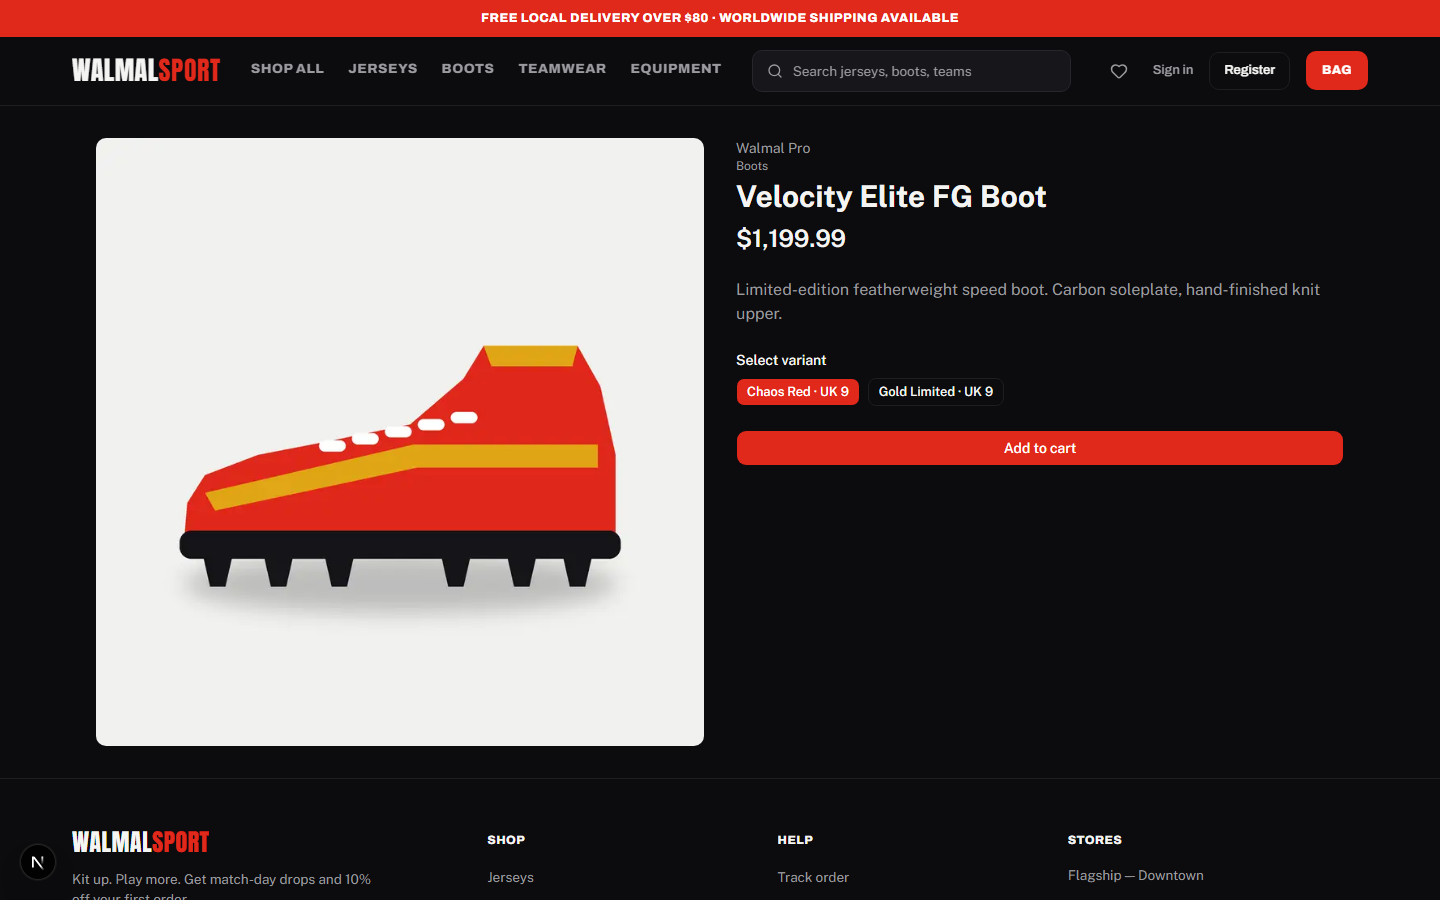
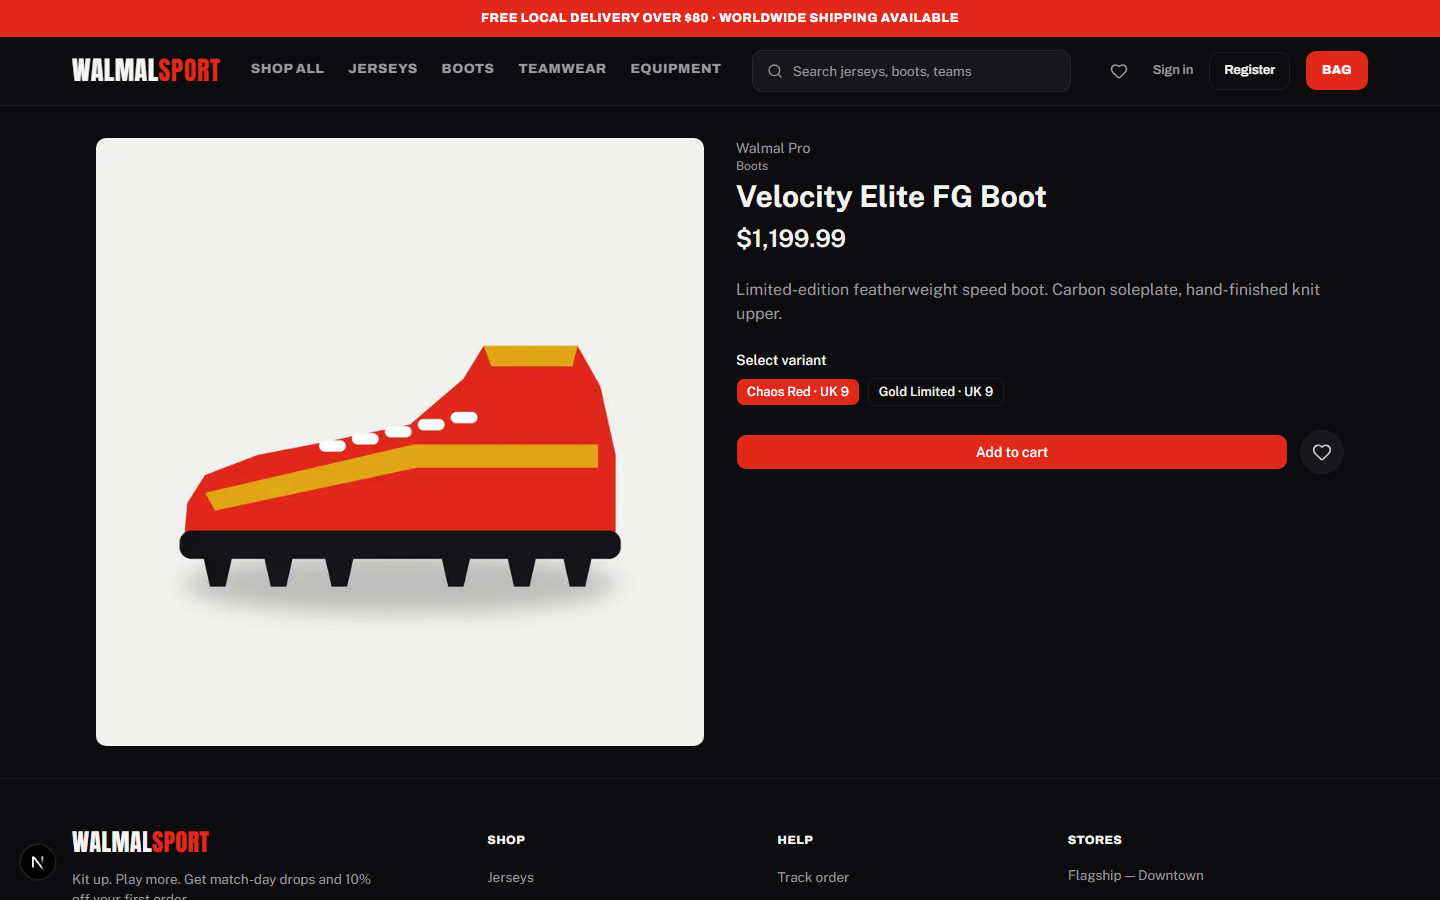
chore: lint to zero + breadcrumb nav + fresh product screenshot
Typed the test anys, documented the checkout-form mode-sync disable,
removed unused vars/directives, deleted unused SEEDED_ITEM_B, wrapped the
listing breadcrumb in nav[aria-label=Breadcrumb], re-captured product.png
(wishlist heart now visible). npm run lint: 0 problems.

Claude-Session: https://claude.ai/code/session_01Sqb2FPWSJrQ8JcYgWQh3cg

Changed region(s): [[0.5312, 0.4667, 0.9375, 0.5289]]

diff --git a/src/app/(shop)/products/page.tsx b/src/app/(shop)/products/page.tsx
@@ -122,12 +122,14 @@ function ProductsContent() {
     <div>
       <div className="border-b border-border">
         <div className="container mx-auto px-4 py-6 lg:py-9">
-          <p className="label-caps text-[12px] text-[#6b6b73]">
-            <Link href="/" className="transition-colors hover:text-foreground">
-              Home
-            </Link>{' '}
-            / {heading}
-          </p>
+          <nav aria-label="Breadcrumb">
+            <p className="label-caps text-[12px] text-[#6b6b73]">
+              <Link href="/" className="transition-colors hover:text-foreground">
+                Home
+              </Link>{' '}
+              / {heading}
+            </p>
+          </nav>
           <h1 className="display-heading mt-2 text-[34px] text-foreground lg:text-[56px]">{heading}</h1>
         </div>
       </div>

diff --git a/tests/e2e/authenticated-checkout.spec.ts b/tests/e2e/authenticated-checkout.spec.ts
@@ -37,15 +37,6 @@ const SEEDED_ITEM: CartItem = {
   imageUrl:    '',
 }
 
-const SEEDED_ITEM_B: CartItem = {
-  variantId:   '20000000-0000-0000-0000-000000000002',
-  productName: 'Velocity Elite FG Boot',
-  variantName: 'WP-VELO-LE-UK9G',
-  price:       1419.99,
-  quantity:    1,
-  imageUrl:    '',
-}
-
 const TEST_ADDRESS = {
   line1: '1 Auth Street', city: 'LoginCity', postalCode: '99999', country: 'US',
 }

diff --git a/tests/lib/api/client.test.ts b/tests/lib/api/client.test.ts
@@ -66,9 +66,9 @@ describe('apiClient interceptors', () => {
             mockLogout()
           },
         }),
-        setState: (patch: any) => {
-          if ('token' in patch) mockToken = patch.token
-          if ('status' in patch) mockStatus = patch.status
+        setState: (patch: { token?: string | null; status?: string }) => {
+          if ('token' in patch) mockToken = patch.token ?? null
+          if ('status' in patch) mockStatus = patch.status ?? mockStatus
         },
       },
     }))

diff --git a/src/components/checkout/checkout-form.tsx b/src/components/checkout/checkout-form.tsx
@@ -36,6 +36,10 @@ export function CheckoutForm() {
   const isAuthenticated = authStatus === 'authenticated'
 
   useEffect(() => {
+    // Syncs the checkout mode when auth status settles (e.g. silent refresh
+    // completes mid-checkout): an authenticated user must never see the
+    // guest-vs-login choice screen. External-system sync, not derived state.
+    // eslint-disable-next-line react-hooks/set-state-in-effect
     if (isAuthenticated) setMode('authenticated')
   }, [isAuthenticated])
 

diff --git a/tests/store/auth-store.test.ts b/tests/store/auth-store.test.ts
@@ -92,7 +92,7 @@ describe('auth-store', () => {
     const { refreshApi } = await import('@/lib/api/auth')
     vi.mocked(refreshApi).mockResolvedValueOnce(makeAuthResponse(CUSTOMER_TOKEN))
     const { useAuthStore } = await import('@/store/auth-store')
-    useAuthStore.setState({ status: 'idle' } as any)
+    useAuthStore.setState({ status: 'idle' })
     await useAuthStore.getState().refresh()
     expect(useAuthStore.getState().status).toBe('authenticated')
     expect(useAuthStore.getState().token).toBe(CUSTOMER_TOKEN)
@@ -103,7 +103,7 @@ describe('auth-store', () => {
     const { ApiError } = await import('@/lib/api/client')
     vi.mocked(refreshApi).mockRejectedValueOnce(new ApiError(401, 'UNAUTHORIZED', 'Token expired'))
     const { useAuthStore } = await import('@/store/auth-store')
-    useAuthStore.setState({ status: 'idle' } as any)
+    useAuthStore.setState({ status: 'idle' })
     await expect(useAuthStore.getState().refresh()).resolves.toBeUndefined()
     expect(useAuthStore.getState().status).toBe('guest')
   })

diff --git a/tests/components/account/layout.test.tsx b/tests/components/account/layout.test.tsx
@@ -11,7 +11,8 @@ vi.mock('next/navigation', () => ({
 async function renderLayout(status: string) {
   vi.resetModules()
   const { useAuthStore } = await import('@/store/auth-store')
-  useAuthStore.setState({ status: status as any } as any)
+  type AuthState = ReturnType<typeof useAuthStore.getState>
+  useAuthStore.setState({ status: status as AuthState['status'] } as Partial<AuthState>)
   const AccountLayout = (await import('@/app/(account)/layout')).default
   return render(
     <AccountLayout>

diff --git a/src/components/providers.tsx b/src/components/providers.tsx
@@ -44,7 +44,7 @@ function AuthProvider({ children }: { children: React.ReactNode }) {
             // Unexpected cart sync error — ignore silently
           }
         }
-      } catch (e) {
+      } catch {
         // Only revert to guest if no newer auth operation (e.g. register/login)
         // has already set a different status. Prevents the catch from clobbering
         // a concurrent register() that finished while this refresh was in-flight.

diff --git a/src/store/auth-store.ts b/src/store/auth-store.ts
@@ -104,7 +104,7 @@ const _createAuthStore = () => create<AuthState>()((set, get) => ({
 }))
 
 type AuthStore = ReturnType<typeof _createAuthStore>
-declare global { var __walmal_auth_store: AuthStore | undefined } // eslint-disable-line no-var
+declare global { var __walmal_auth_store: AuthStore | undefined }
 export const useAuthStore: AuthStore =
   typeof window !== 'undefined'
     ? (globalThis.__walmal_auth_store ??= _createAuthStore())

diff --git a/tests/components/cart/cart-drawer.test.tsx b/tests/components/cart/cart-drawer.test.tsx
@@ -80,7 +80,7 @@ describe('CartDrawer', () => {
     const quantitySpan = screen.getByText('2')
     // The parent div of the quantity span contains the Minus and Plus buttons
     const controlsDiv = quantitySpan.parentElement!
-    const [minusBtn, plusBtn] = within(controlsDiv).getAllByRole('button')
+    const [, plusBtn] = within(controlsDiv).getAllByRole('button')
 
     await user.click(plusBtn)
 